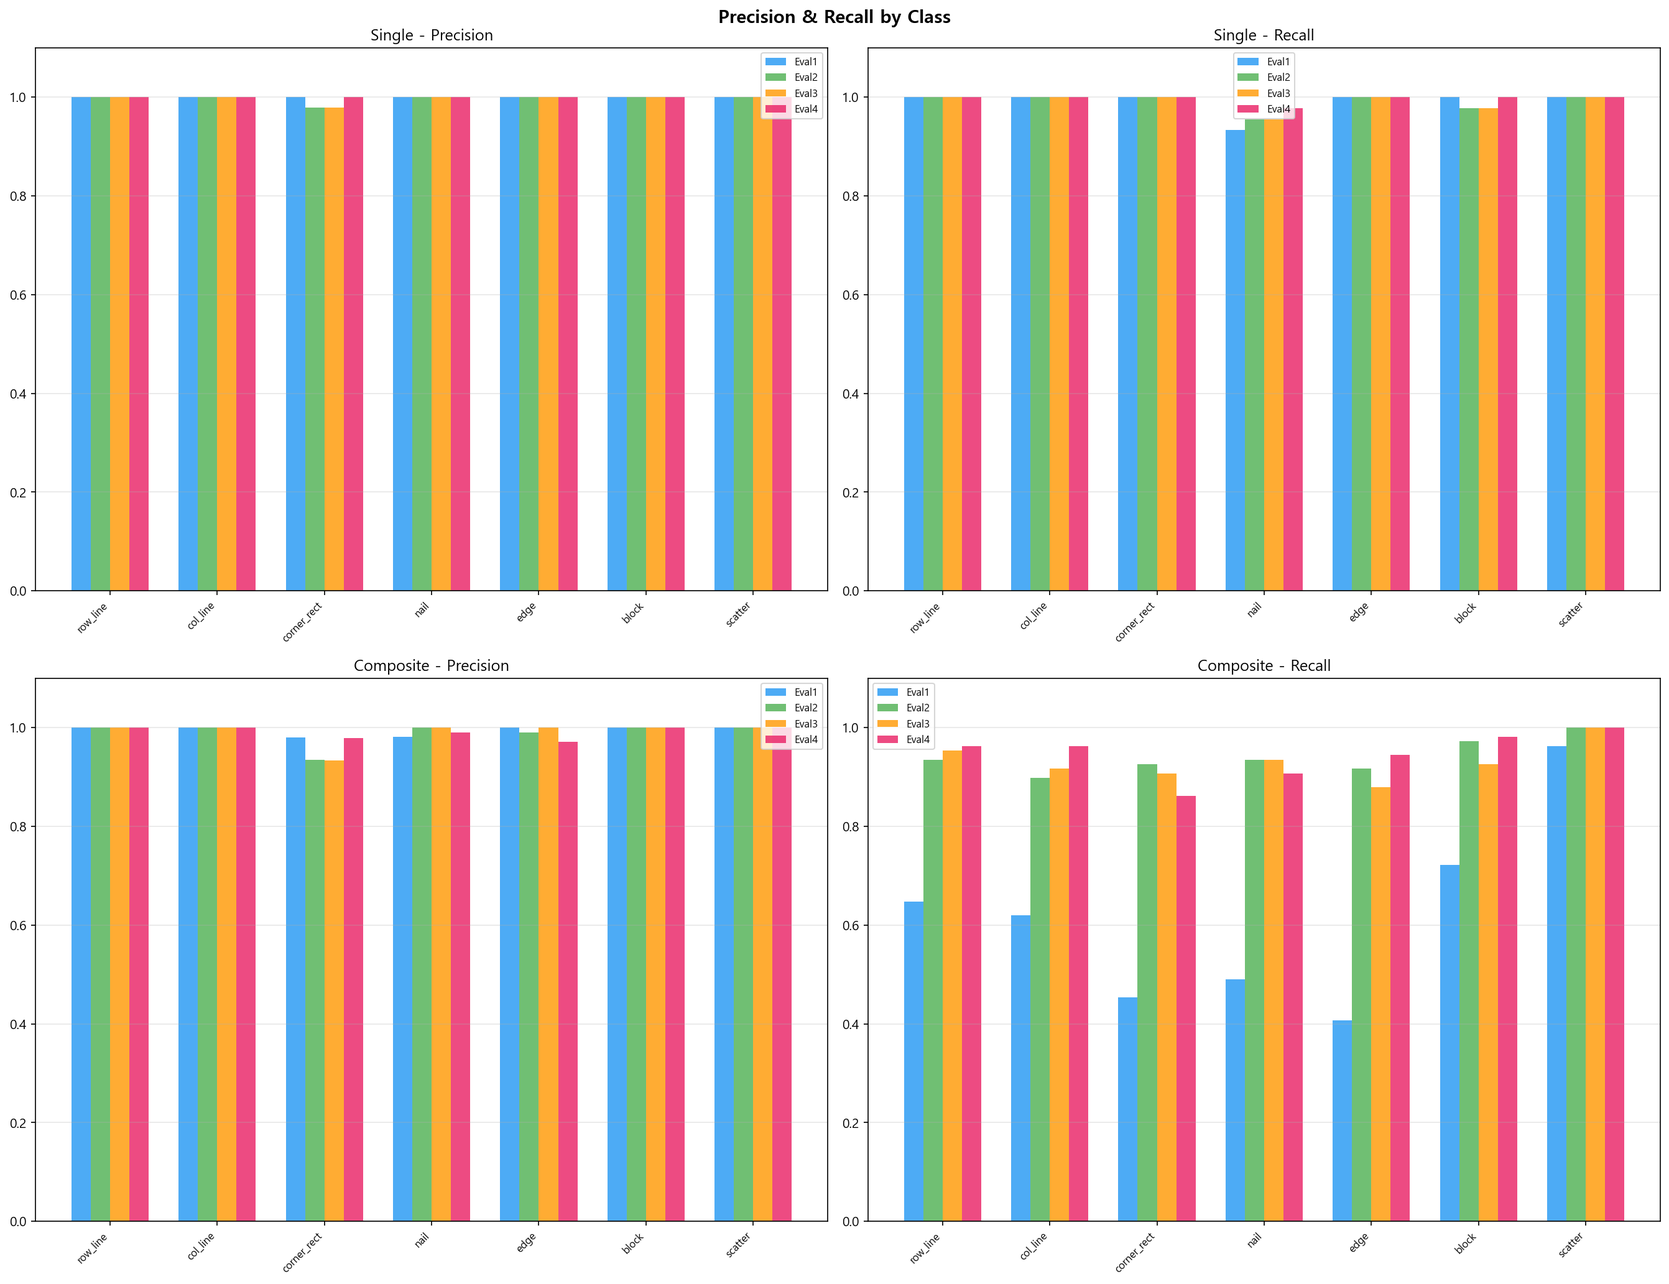
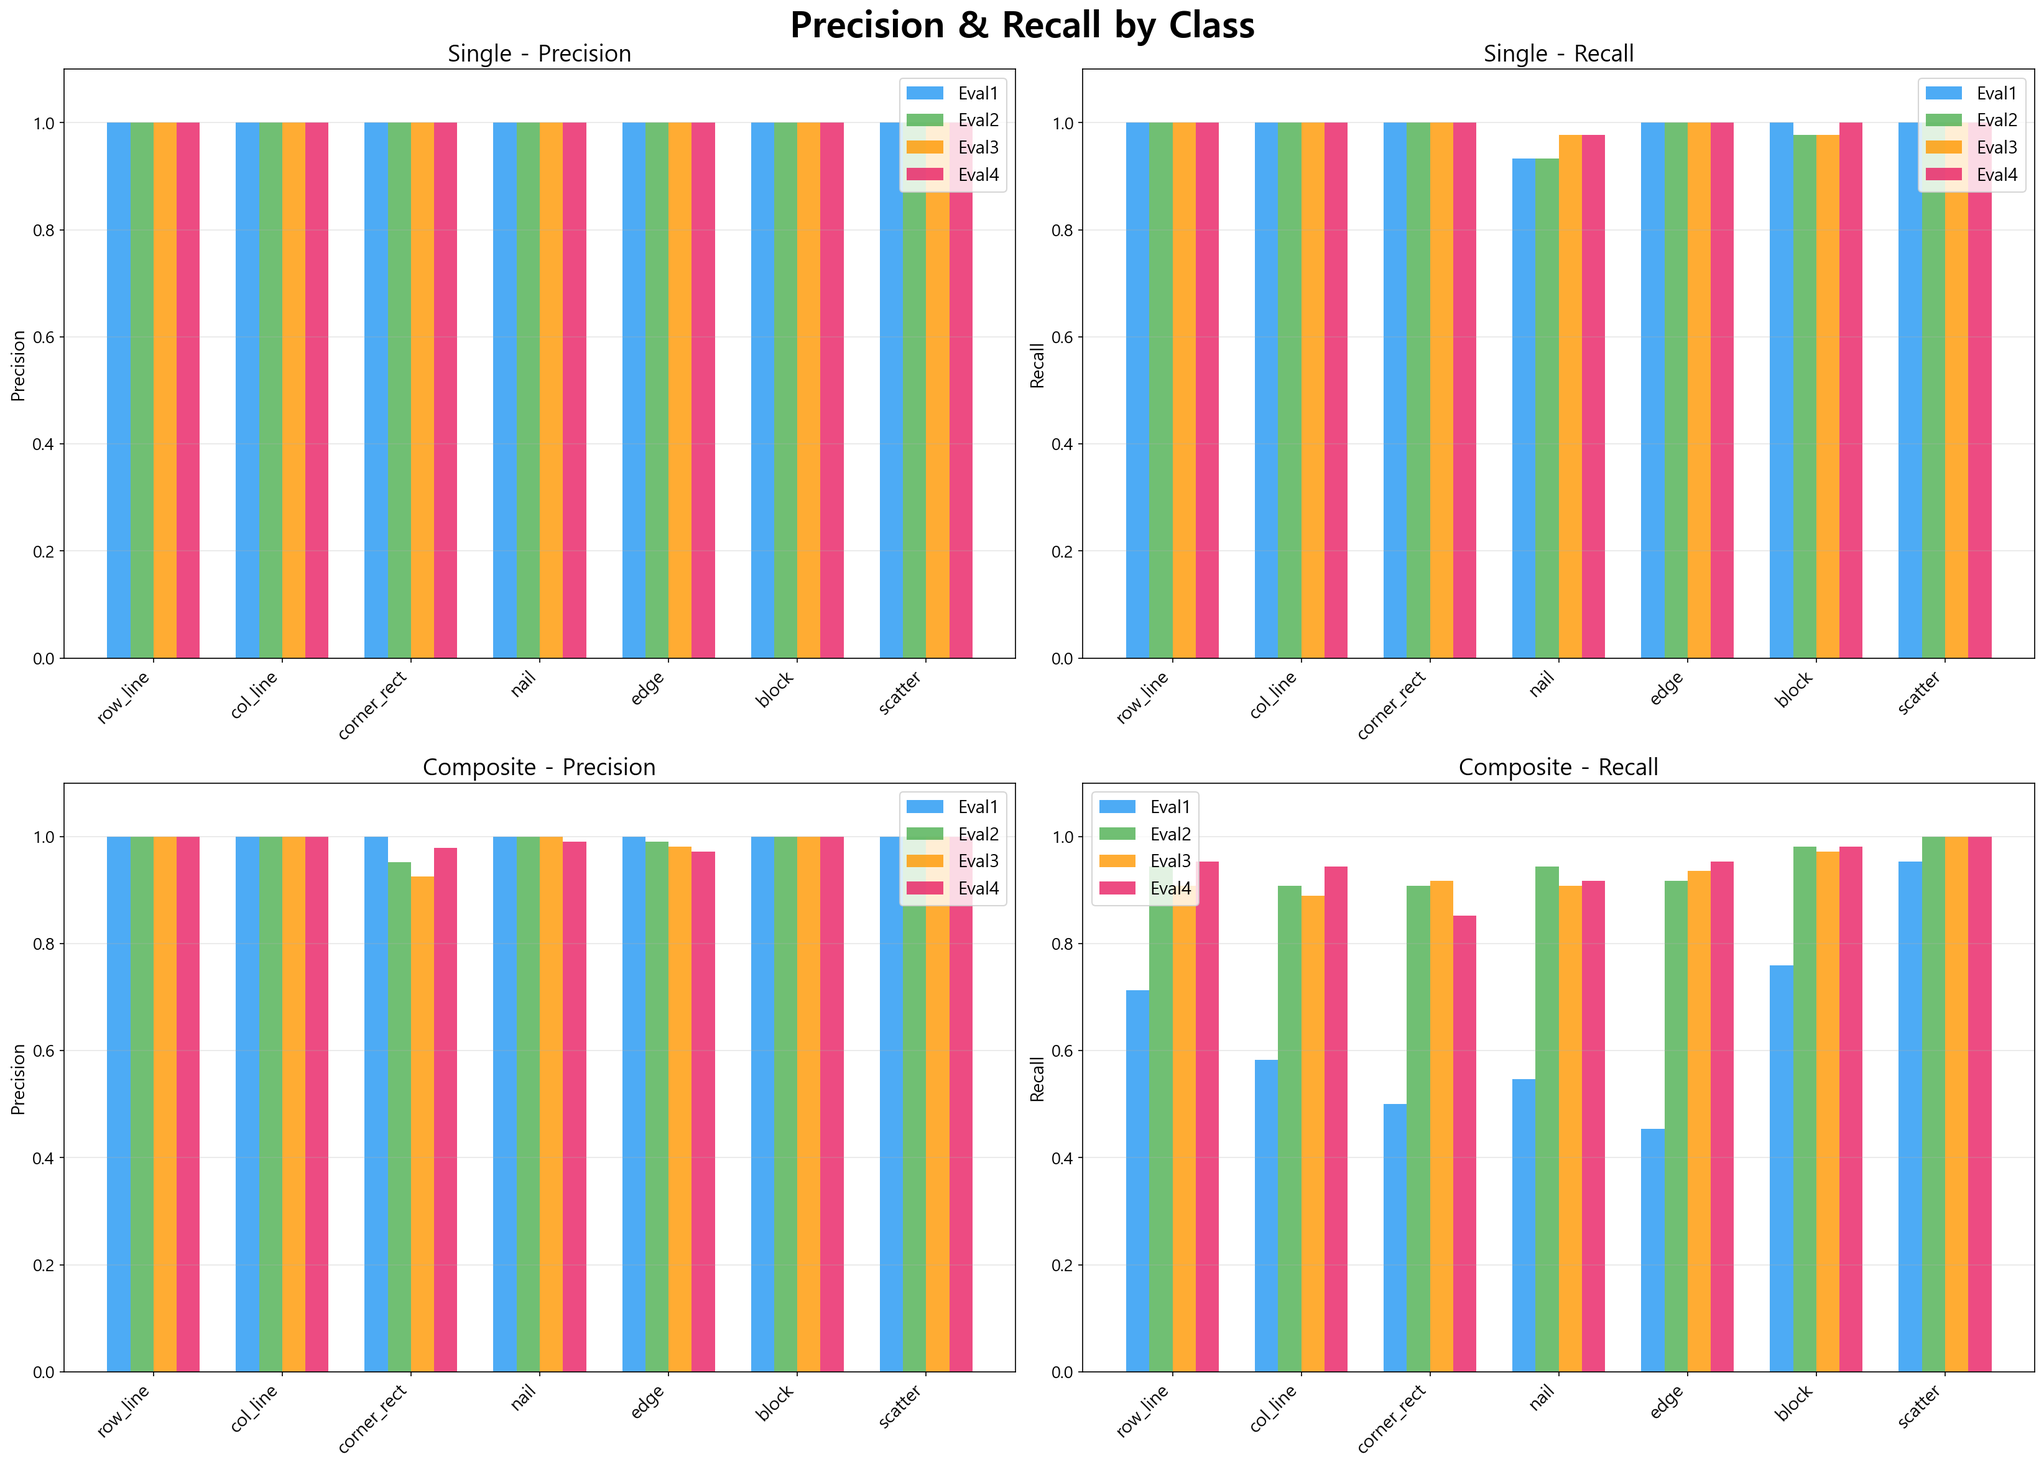
Increase visualization font sizes 2x and add interpretation guides to README
- Double all font sizes across 6 chart types in run_evaluation.py and
  probability distribution charts in visualize_prob_distribution.py
- Regenerate all visualization images with larger, readable text
- Add detailed interpretation guides (collapsible) for each chart in README
- Update results tables with latest evaluation run numbers

diff --git a/run_evaluation.py b/run_evaluation.py
@@ -485,8 +485,8 @@ def create_visualizations(all_results, output_dir, splits):
     colors = ["#2196F3", "#4CAF50", "#FF9800", "#E91E63"]
 
     # ── 1) 종합 성능 비교 Bar Chart ──
-    fig, axes = plt.subplots(2, 2, figsize=(16, 12))
-    fig.suptitle("FBM Defect Classification - Evaluation Results", fontsize=16, fontweight="bold")
+    fig, axes = plt.subplots(2, 2, figsize=(20, 15))
+    fig.suptitle("FBM Defect Classification - Evaluation Results", fontsize=28, fontweight="bold")
 
     # 1a) Subset Accuracy 비교
     ax = axes[0, 0]
@@ -502,24 +502,25 @@ def create_visualizations(all_results, output_dir, splits):
         width = 0.35
         bars1 = ax_idx.bar(x - width / 2, subset_accs, width, label="Subset Accuracy", color=colors, alpha=0.8)
         bars2 = ax_idx.bar(x + width / 2, hamming_accs, width, label="Hamming Accuracy", color=colors, alpha=0.5)
-        ax_idx.set_xlabel("Evaluation")
-        ax_idx.set_ylabel("Accuracy")
+        ax_idx.set_xlabel("Evaluation", fontsize=16)
+        ax_idx.set_ylabel("Accuracy", fontsize=16)
         test_label = "Single Defect" if test_type == "single" else "Composite Defect"
-        ax_idx.set_title(f"{test_label} Test Performance")
+        ax_idx.set_title(f"{test_label} Test Performance", fontsize=18)
         ax_idx.set_xticks(x)
-        ax_idx.set_xticklabels(eval_names, fontsize=9)
-        ax_idx.legend(loc="lower right")
+        ax_idx.set_xticklabels(eval_names, fontsize=14)
+        ax_idx.legend(loc="lower right", fontsize=14)
         ax_idx.set_ylim(0, 1.05)
         ax_idx.grid(axis="y", alpha=0.3)
+        ax_idx.tick_params(axis="y", labelsize=13)
 
         for bar in bars1:
             h = bar.get_height()
             ax_idx.text(bar.get_x() + bar.get_width() / 2., h + 0.01, f"{h:.1%}",
-                       ha="center", va="bottom", fontsize=8)
+                       ha="center", va="bottom", fontsize=14)
         for bar in bars2:
             h = bar.get_height()
             ax_idx.text(bar.get_x() + bar.get_width() / 2., h + 0.01, f"{h:.1%}",
-                       ha="center", va="bottom", fontsize=8)
+                       ha="center", va="bottom", fontsize=14)
 
     # 1b) Training Loss Curves
     ax = axes[1, 0]
@@ -529,11 +530,12 @@ def create_visualizations(all_results, output_dir, splits):
             ax.plot(hist["train_loss"], label=f"Eval{i+1} Train", color=colors[i], linestyle="-")
         if "val_loss" in hist:
             ax.plot(hist["val_loss"], label=f"Eval{i+1} Val", color=colors[i], linestyle="--")
-    ax.set_xlabel("Epoch")
-    ax.set_ylabel("Loss")
-    ax.set_title("Training & Validation Loss")
-    ax.legend(fontsize=7, ncol=2)
+    ax.set_xlabel("Epoch", fontsize=16)
+    ax.set_ylabel("Loss", fontsize=16)
+    ax.set_title("Training & Validation Loss", fontsize=18)
+    ax.legend(fontsize=12, ncol=2)
     ax.grid(alpha=0.3)
+    ax.tick_params(labelsize=13)
 
     # 1c) Validation Subset Accuracy Curves
     ax = axes[1, 1]
@@ -543,12 +545,13 @@ def create_visualizations(all_results, output_dir, splits):
             ax.plot(hist["val_subset_acc"], label=f"Eval{i+1} Subset", color=colors[i], linestyle="-")
         if "val_hamming_acc" in hist:
             ax.plot(hist["val_hamming_acc"], label=f"Eval{i+1} Hamming", color=colors[i], linestyle="--")
-    ax.set_xlabel("Epoch")
-    ax.set_ylabel("Accuracy")
-    ax.set_title("Validation Accuracy Progress")
-    ax.legend(fontsize=7, ncol=2)
+    ax.set_xlabel("Epoch", fontsize=16)
+    ax.set_ylabel("Accuracy", fontsize=16)
+    ax.set_title("Validation Accuracy Progress", fontsize=18)
+    ax.legend(fontsize=12, ncol=2)
     ax.grid(alpha=0.3)
     ax.set_ylim(0, 1.05)
+    ax.tick_params(labelsize=13)
 
     plt.tight_layout()
     plt.savefig(viz_dir / "01_overall_comparison.png", dpi=150, bbox_inches="tight")
@@ -556,7 +559,7 @@ def create_visualizations(all_results, output_dir, splits):
     print(f"  [시각화] 종합 성능 비교: {viz_dir / '01_overall_comparison.png'}")
 
     # ── 2) Per-Class Performance Heatmap ──
-    fig, axes = plt.subplots(1, 2, figsize=(18, 7))
+    fig, axes = plt.subplots(1, 2, figsize=(22, 9))
 
     for test_idx, test_type in enumerate(["single", "composite"]):
         ax = axes[test_idx]
@@ -570,28 +573,28 @@ def create_visualizations(all_results, output_dir, splits):
         im = ax.imshow(data_matrix, cmap="RdYlGn", vmin=0.5, vmax=1.0, aspect="auto")
 
         ax.set_xticks(range(NUM_CLASSES))
-        ax.set_xticklabels(DEFECT_CLASSES, rotation=45, ha="right", fontsize=9)
+        ax.set_xticklabels(DEFECT_CLASSES, rotation=45, ha="right", fontsize=16)
         ax.set_yticks(range(4))
-        ax.set_yticklabels(["Eval1", "Eval2", "Eval3", "Eval4"])
+        ax.set_yticklabels(["Eval1", "Eval2", "Eval3", "Eval4"], fontsize=16)
 
         for i in range(4):
             for j in range(NUM_CLASSES):
                 val = data_matrix[i, j]
                 color = "white" if val < 0.75 else "black"
-                ax.text(j, i, f"{val:.1%}", ha="center", va="center", fontsize=9, color=color)
+                ax.text(j, i, f"{val:.1%}", ha="center", va="center", fontsize=16, color=color, fontweight="bold")
 
         test_label = "Single Defect" if test_type == "single" else "Composite Defect"
-        ax.set_title(f"Per-Class Accuracy ({test_label})")
+        ax.set_title(f"Per-Class Accuracy ({test_label})", fontsize=18)
         plt.colorbar(im, ax=ax, shrink=0.8)
 
-    plt.suptitle("Per-Class Accuracy Heatmap", fontsize=14, fontweight="bold")
+    plt.suptitle("Per-Class Accuracy Heatmap", fontsize=28, fontweight="bold")
     plt.tight_layout()
     plt.savefig(viz_dir / "02_per_class_heatmap.png", dpi=150, bbox_inches="tight")
     plt.close()
     print(f"  [시각화] 클래스별 성능 히트맵: {viz_dir / '02_per_class_heatmap.png'}")
 
     # ── 3) Per-Class F1 Score Radar Chart ──
-    fig, axes = plt.subplots(1, 2, figsize=(16, 7), subplot_kw=dict(polar=True))
+    fig, axes = plt.subplots(1, 2, figsize=(22, 10), subplot_kw=dict(polar=True))
 
     for test_idx, test_type in enumerate(["single", "composite"]):
         ax = axes[test_idx]
@@ -602,23 +605,24 @@ def create_visualizations(all_results, output_dir, splits):
             r = all_results[ek].get(f"test_{test_type}", {})
             f1_scores = r.get("per_class_f1", [0] * NUM_CLASSES)
             values = f1_scores + f1_scores[:1]
-            ax.plot(angles, values, 'o-', linewidth=1.5, label=f"Eval{i+1}", color=colors[i])
+            ax.plot(angles, values, 'o-', linewidth=2, label=f"Eval{i+1}", color=colors[i])
             ax.fill(angles, values, alpha=0.1, color=colors[i])
 
         ax.set_xticks(angles[:-1])
-        ax.set_xticklabels(DEFECT_CLASSES, fontsize=8)
+        ax.set_xticklabels(DEFECT_CLASSES, fontsize=14)
         ax.set_ylim(0, 1.05)
-        ax.set_title(f"{'Single' if test_type == 'single' else 'Composite'} - Per-Class F1", pad=20)
-        ax.legend(loc="upper right", bbox_to_anchor=(1.3, 1.1), fontsize=8)
+        ax.tick_params(axis="y", labelsize=12)
+        ax.set_title(f"{'Single' if test_type == 'single' else 'Composite'} - Per-Class F1", pad=20, fontsize=18)
+        ax.legend(loc="upper right", bbox_to_anchor=(1.3, 1.1), fontsize=14)
 
-    plt.suptitle("Per-Class F1 Score Radar Chart", fontsize=14, fontweight="bold")
+    plt.suptitle("Per-Class F1 Score Radar Chart", fontsize=28, fontweight="bold")
     plt.tight_layout()
     plt.savefig(viz_dir / "03_f1_radar_chart.png", dpi=150, bbox_inches="tight")
     plt.close()
     print(f"  [시각화] F1 레이더 차트: {viz_dir / '03_f1_radar_chart.png'}")
 
     # ── 4) Precision / Recall 비교 ──
-    fig, axes = plt.subplots(2, 2, figsize=(18, 14))
+    fig, axes = plt.subplots(2, 2, figsize=(22, 16))
 
     for test_idx, test_type in enumerate(["single", "composite"]):
         for metric_idx, metric_name in enumerate(["per_class_precision", "per_class_recall"]):
@@ -632,16 +636,18 @@ def create_visualizations(all_results, output_dir, splits):
                 ax.bar(x + i * width, values, width, label=f"Eval{i+1}", color=colors[i], alpha=0.8)
 
             ax.set_xticks(x + width * 1.5)
-            ax.set_xticklabels(DEFECT_CLASSES, rotation=45, ha="right", fontsize=8)
+            ax.set_xticklabels(DEFECT_CLASSES, rotation=45, ha="right", fontsize=14)
             ax.set_ylim(0, 1.1)
             ax.grid(axis="y", alpha=0.3)
+            ax.tick_params(axis="y", labelsize=13)
 
             metric_label = "Precision" if "precision" in metric_name else "Recall"
             test_label = "Single" if test_type == "single" else "Composite"
-            ax.set_title(f"{test_label} - {metric_label}")
-            ax.legend(fontsize=8)
+            ax.set_title(f"{test_label} - {metric_label}", fontsize=18)
+            ax.set_ylabel(metric_label, fontsize=14)
+            ax.legend(fontsize=14)
 
-    plt.suptitle("Precision & Recall by Class", fontsize=14, fontweight="bold")
+    plt.suptitle("Precision & Recall by Class", fontsize=28, fontweight="bold")
     plt.tight_layout()
     plt.savefig(viz_dir / "04_precision_recall.png", dpi=150, bbox_inches="tight")
     plt.close()
@@ -675,7 +681,7 @@ def _visualize_sample_predictions(all_results, splits, viz_dir):
     indices = random.sample(range(len(dataset)), n_samples)
 
     eval_keys = ["eval1", "eval2", "eval3", "eval4"]
-    fig, axes = plt.subplots(n_samples, 5, figsize=(20, n_samples * 2.5))
+    fig, axes = plt.subplots(n_samples, 5, figsize=(26, n_samples * 3.5))
 
     for row, idx in enumerate(indices):
         tensor, label = dataset[idx]
@@ -684,7 +690,7 @@ def _visualize_sample_predictions(all_results, splits, viz_dir):
         # 이미지 표시
         axes[row, 0].imshow(img, cmap="hot", aspect="auto")
         true_classes = [DEFECT_CLASSES[i] for i in range(NUM_CLASSES) if label[i] == 1]
-        axes[row, 0].set_title(f"True: {'+'.join(true_classes)}", fontsize=7)
+        axes[row, 0].set_title(f"True: {'+'.join(true_classes)}", fontsize=14, fontweight="bold")
         axes[row, 0].axis("off")
 
         # 각 Eval 결과
@@ -702,18 +708,19 @@ def _visualize_sample_predictions(all_results, splits, viz_dir):
                 # 확률 바 차트
                 bar_colors = ["#4CAF50" if pred[i] == label[i] else "#F44336" for i in range(NUM_CLASSES)]
                 ax.barh(range(NUM_CLASSES), prob.numpy(), color=bar_colors, alpha=0.7)
-                ax.axvline(x=0.5, color="red", linestyle="--", linewidth=0.5)
+                ax.axvline(x=0.5, color="red", linestyle="--", linewidth=1)
                 ax.set_yticks(range(NUM_CLASSES))
-                ax.set_yticklabels(DEFECT_CLASSES, fontsize=6)
+                ax.set_yticklabels(DEFECT_CLASSES, fontsize=12)
                 ax.set_xlim(0, 1)
+                ax.tick_params(axis="x", labelsize=11)
                 correct = (pred == label).all().item()
-                ax.set_title(f"Eval{col+1}: {'O' if correct else 'X'}", fontsize=8,
+                ax.set_title(f"Eval{col+1}: {'O' if correct else 'X'}", fontsize=16, fontweight="bold",
                            color="green" if correct else "red")
             else:
-                ax.text(0.5, 0.5, "N/A", ha="center", va="center")
-                ax.set_title(f"Eval{col+1}", fontsize=8)
+                ax.text(0.5, 0.5, "N/A", ha="center", va="center", fontsize=16)
+                ax.set_title(f"Eval{col+1}", fontsize=16)
 
-    plt.suptitle("Sample Predictions on Composite Test Images", fontsize=14, fontweight="bold")
+    plt.suptitle("Sample Predictions on Composite Test Images", fontsize=28, fontweight="bold")
     plt.tight_layout()
     plt.savefig(viz_dir / "05_sample_predictions.png", dpi=150, bbox_inches="tight")
     plt.close()
@@ -804,7 +811,7 @@ def visualize_detection_maps(model, dataset, viz_dir, n_samples=6):
         return
 
     indices = random.sample(range(len(dataset)), n_samples)
-    fig, axes = plt.subplots(n_samples, NUM_CLASSES + 1, figsize=(3 * (NUM_CLASSES + 1), 3 * n_samples))
+    fig, axes = plt.subplots(n_samples, NUM_CLASSES + 1, figsize=(4 * (NUM_CLASSES + 1), 4 * n_samples))
 
     model.eval()
     with torch.no_grad():
@@ -815,7 +822,7 @@ def visualize_detection_maps(model, dataset, viz_dir, n_samples=6):
             # 원본 이미지
             axes[row, 0].imshow(img, cmap="hot", aspect="auto")
             true_cls = [DEFECT_CLASSES[i] for i in range(NUM_CLASSES) if label[i] == 1]
-            axes[row, 0].set_title(f"True: {'+'.join(true_cls)}", fontsize=7)
+            axes[row, 0].set_title(f"True: {'+'.join(true_cls)}", fontsize=14, fontweight="bold")
             axes[row, 0].axis("off")
 
             # Forward pass
@@ -836,10 +843,11 @@ def visualize_detection_maps(model, dataset, viz_dir, n_samples=6):
                     p = probs[c].item()
                     is_true = label[c] == 1
                     ax.set_title(f"{DEFECT_CLASSES[c]}\n{p:.2f} {'(T)' if is_true else ''}",
-                               fontsize=6, color="green" if is_true else "gray")
+                               fontsize=13, fontweight="bold",
+                               color="green" if is_true else "gray")
                     ax.axis("off")
 
-    plt.suptitle("Detection Model - Spatial Attention Maps", fontsize=14, fontweight="bold")
+    plt.suptitle("Detection Model - Spatial Attention Maps", fontsize=28, fontweight="bold")
     plt.tight_layout()
     plt.savefig(viz_dir / "06_detection_attention_maps.png", dpi=150, bbox_inches="tight")
     plt.close()

diff --git a/visualize_prob_distribution.py b/visualize_prob_distribution.py
@@ -67,7 +67,7 @@ def plot_probability_distributions(all_probs, all_labels, eval_name, test_name, 
     - 빨간색: 실제 label=1 (해당 패턴 있음)의 예측 확률 분포
     - threshold=0.5 선
     """
-    fig, axes = plt.subplots(2, 4, figsize=(22, 10))
+    fig, axes = plt.subplots(2, 4, figsize=(28, 14))
     axes = axes.flatten()
 
     colors_neg = "#2196F3"  # 파란색 (negative)
@@ -91,7 +91,7 @@ def plot_probability_distributions(all_probs, all_labels, eval_name, test_name, 
                 label=f"Label=1 (n={len(pos_probs)})", density=True, edgecolor="white", linewidth=0.3)
 
         # threshold 선
-        ax.axvline(x=0.5, color="black", linestyle="--", linewidth=1.5, label="Threshold=0.5")
+        ax.axvline(x=0.5, color="black", linestyle="--", linewidth=2, label="Threshold=0.5")
 
         # 통계
         neg_mean = neg_probs.mean() if len(neg_probs) > 0 else 0
@@ -104,11 +104,12 @@ def plot_probability_distributions(all_probs, all_labels, eval_name, test_name, 
 
         ax.set_title(f"{DEFECT_CLASSES[i]}\n"
                      f"sep={separation:.3f}  FPR={fp_rate:.1%}  FNR={fn_rate:.1%}",
-                     fontsize=10, fontweight="bold")
-        ax.set_xlabel("Predicted Probability")
-        ax.set_ylabel("Density")
-        ax.legend(fontsize=7, loc="upper center")
+                     fontsize=16, fontweight="bold")
+        ax.set_xlabel("Predicted Probability", fontsize=14)
+        ax.set_ylabel("Density", fontsize=14)
+        ax.legend(fontsize=12, loc="upper center")
         ax.set_xlim(-0.02, 1.02)
+        ax.tick_params(labelsize=12)
         ax.grid(alpha=0.2)
 
     # 마지막 셀: 요약 통계
@@ -130,11 +131,11 @@ def plot_probability_distributions(all_probs, all_labels, eval_name, test_name, 
         summary_lines.append(f"{DEFECT_CLASSES[i]:<14s} {sep:>5.3f} {fp_rate:>5.1%} {fn_rate:>5.1%}")
 
     ax.text(0.1, 0.95, "\n".join(summary_lines), transform=ax.transAxes,
-            fontsize=10, verticalalignment="top", fontfamily="monospace",
+            fontsize=16, verticalalignment="top", fontfamily="monospace",
             bbox=dict(boxstyle="round", facecolor="lightyellow", alpha=0.8))
 
     plt.suptitle(f"Probability Distribution per Binary Classifier\n{eval_name} - {test_name}",
-                 fontsize=14, fontweight="bold")
+                 fontsize=26, fontweight="bold")
     plt.tight_layout()
 
     fname = f"prob_dist_{eval_name.lower().replace(' ', '_')}_{test_name.lower().replace(' ', '_')}.png"
@@ -146,7 +147,7 @@ def plot_probability_distributions(all_probs, all_labels, eval_name, test_name, 
 
 def plot_combined_overview(all_results_data, viz_dir):
     """4개 평가 x 2개 테스트셋의 separation 종합 비교"""
-    fig, axes = plt.subplots(2, 1, figsize=(18, 12))
+    fig, axes = plt.subplots(2, 1, figsize=(22, 16))
 
     eval_names = ["Eval1", "Eval2", "Eval3", "Eval4"]
     colors = ["#2196F3", "#4CAF50", "#FF9800", "#E91E63"]
@@ -166,25 +167,26 @@ def plot_combined_overview(all_results_data, viz_dir):
             bars = ax.bar(x + eval_idx * width, seps, width,
                          label=ename, color=colors[eval_idx], alpha=0.8)
 
-            # FNR 표시 (작은 텍스트)
+            # FNR 표시
             for j, (bar, fnr) in enumerate(zip(bars, fnrs)):
                 if fnr > 0.01:  # 1% 이상만 표시
                     ax.text(bar.get_x() + bar.get_width() / 2., bar.get_height() + 0.01,
-                           f"{fnr:.0%}", ha="center", va="bottom", fontsize=6, color="red")
+                           f"{fnr:.0%}", ha="center", va="bottom", fontsize=11, color="red", fontweight="bold")
 
         ax.set_xticks(x + width * 1.5)
-        ax.set_xticklabels(DEFECT_CLASSES, fontsize=10)
+        ax.set_xticklabels(DEFECT_CLASSES, fontsize=16)
         ax.set_ylim(0, 1.15)
-        ax.set_ylabel("Mean Separation (μ₁ - μ₀)")
+        ax.set_ylabel("Mean Separation", fontsize=16)
         ax.set_title(f"{test_type} Test - Probability Separation per Class\n"
-                     f"(빨간 숫자: False Negative Rate)", fontsize=12)
-        ax.legend(fontsize=9)
+                     f"(Red numbers: False Negative Rate)", fontsize=20)
+        ax.legend(fontsize=14)
         ax.grid(axis="y", alpha=0.3)
+        ax.tick_params(axis="y", labelsize=13)
         ax.axhline(y=0.9, color="green", linestyle=":", alpha=0.5, label="Good separation")
 
     plt.suptitle("Binary Classifier Discriminability Overview\n"
-                 "Mean Separation = E[P(x)|label=1] - E[P(x)|label=0]  (높을수록 좋음)",
-                 fontsize=14, fontweight="bold")
+                 "Mean Separation = E[P(x)|label=1] - E[P(x)|label=0]",
+                 fontsize=26, fontweight="bold")
     plt.tight_layout()
     plt.savefig(viz_dir / "prob_dist_overview.png", dpi=150, bbox_inches="tight")
     plt.close()
